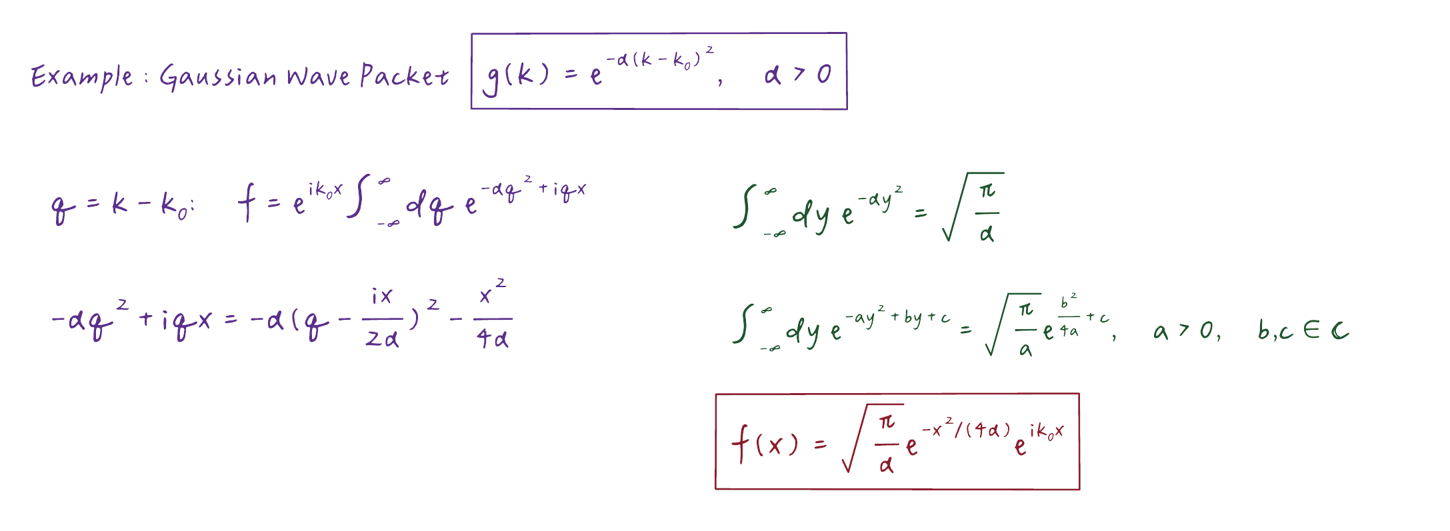
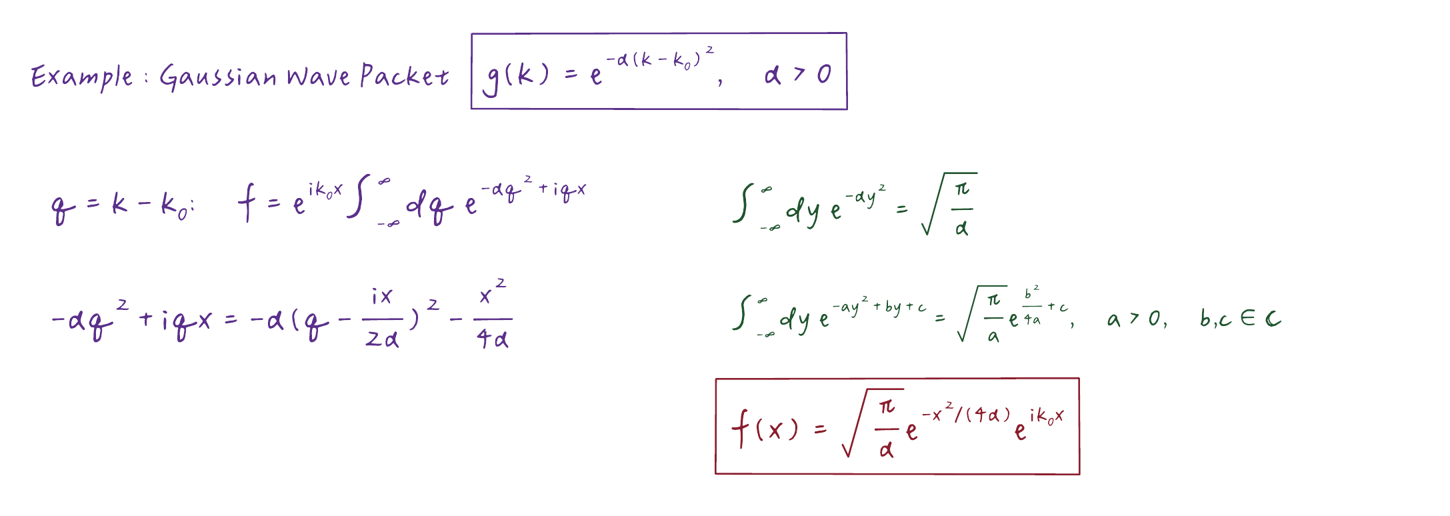
docs: reduce Gaussian integral side-note sizes

diff --git a/tools/font/README.md b/tools/font/README.md
@@ -564,3 +564,5 @@ The boxed Gaussian example row has 18 additional canvas units of whitespace abov
 The two green Gaussian integral identities and boxed f(x) result form a right-hand column at x=385 alongside the purple two-line derivation. Both columns begin below the example row; all formula sizes and colors are retained. Following plots start below the taller column.
 
 [Gaussian derivation in two columns](proofs/note-gaussian-side-derivation.png).
+
+The two green Gaussian integral identities now use sizes 18 and 16 (previously 20 and 18), about 10% smaller. Their color and x=385 alignment are preserved; the red boxed result remains size 20.
